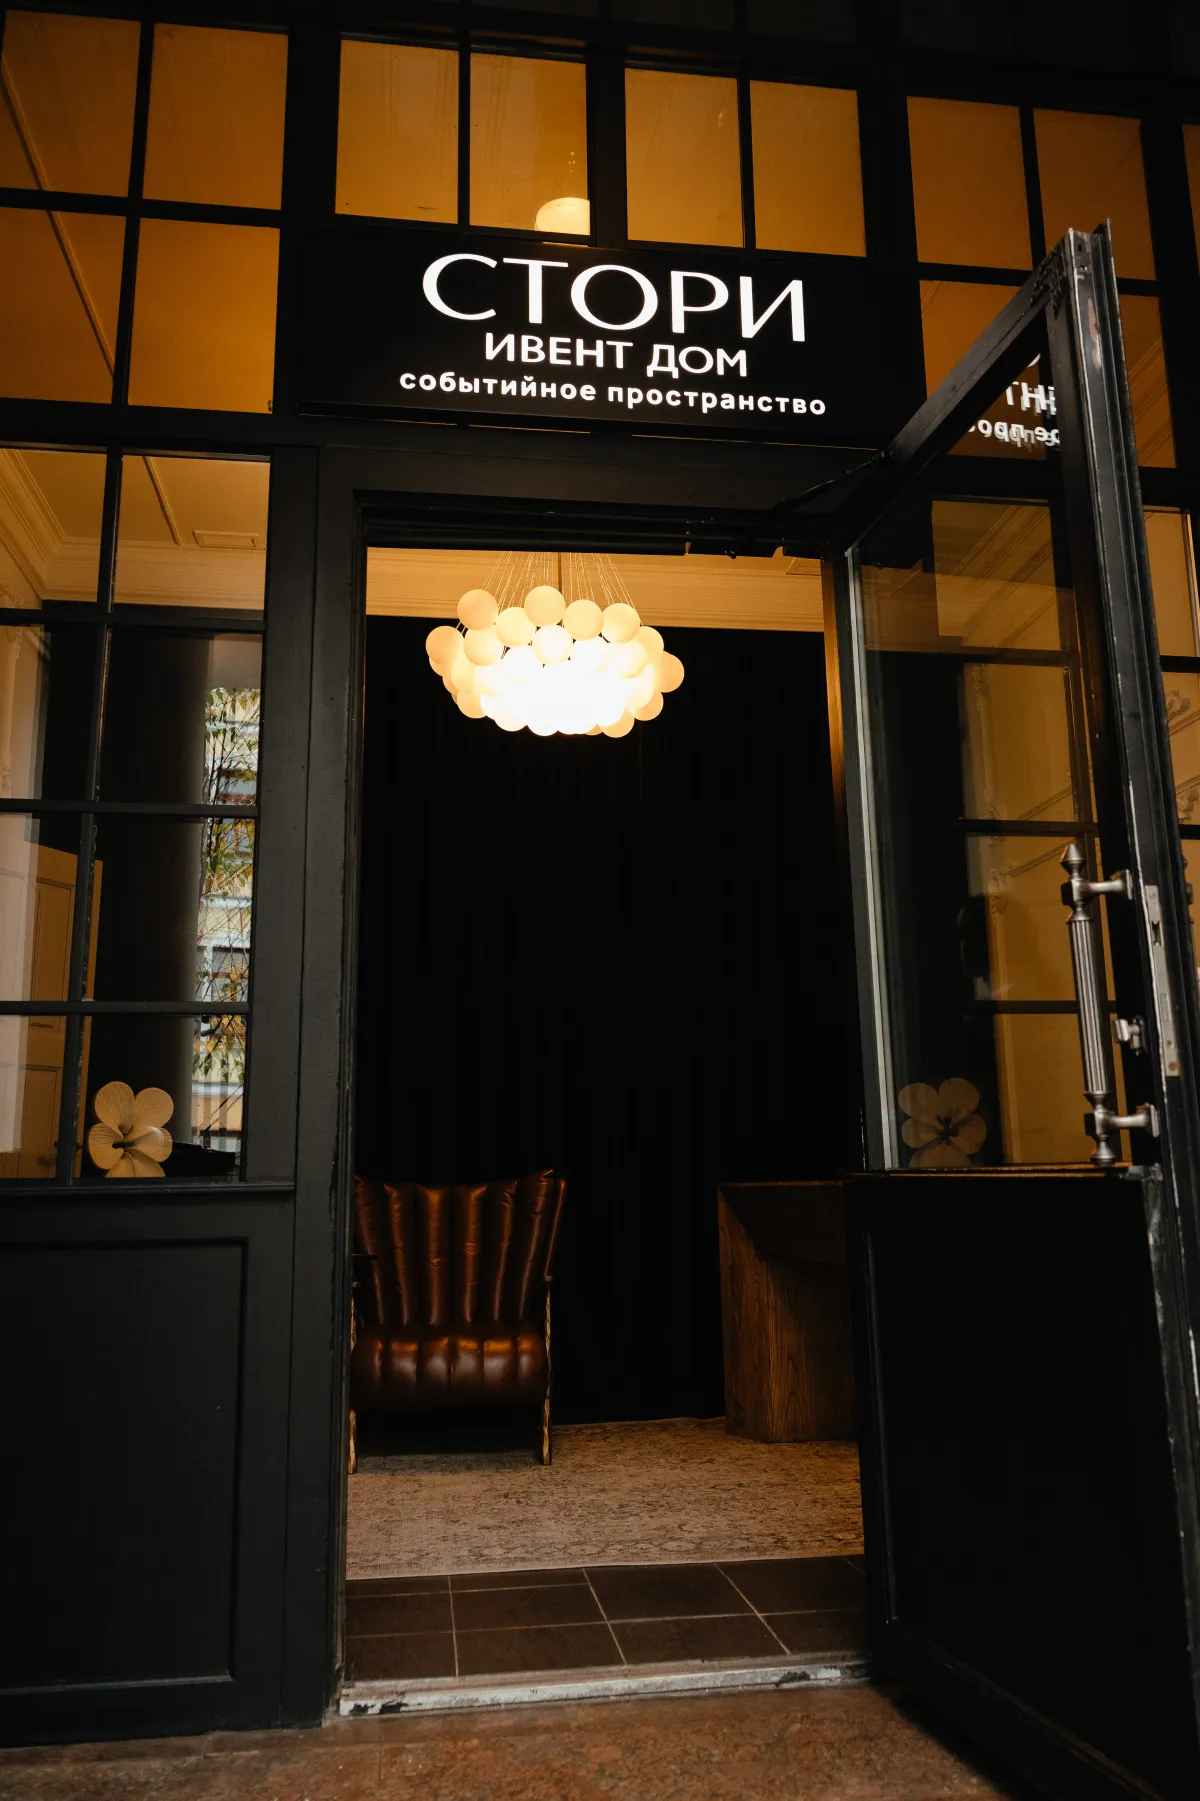
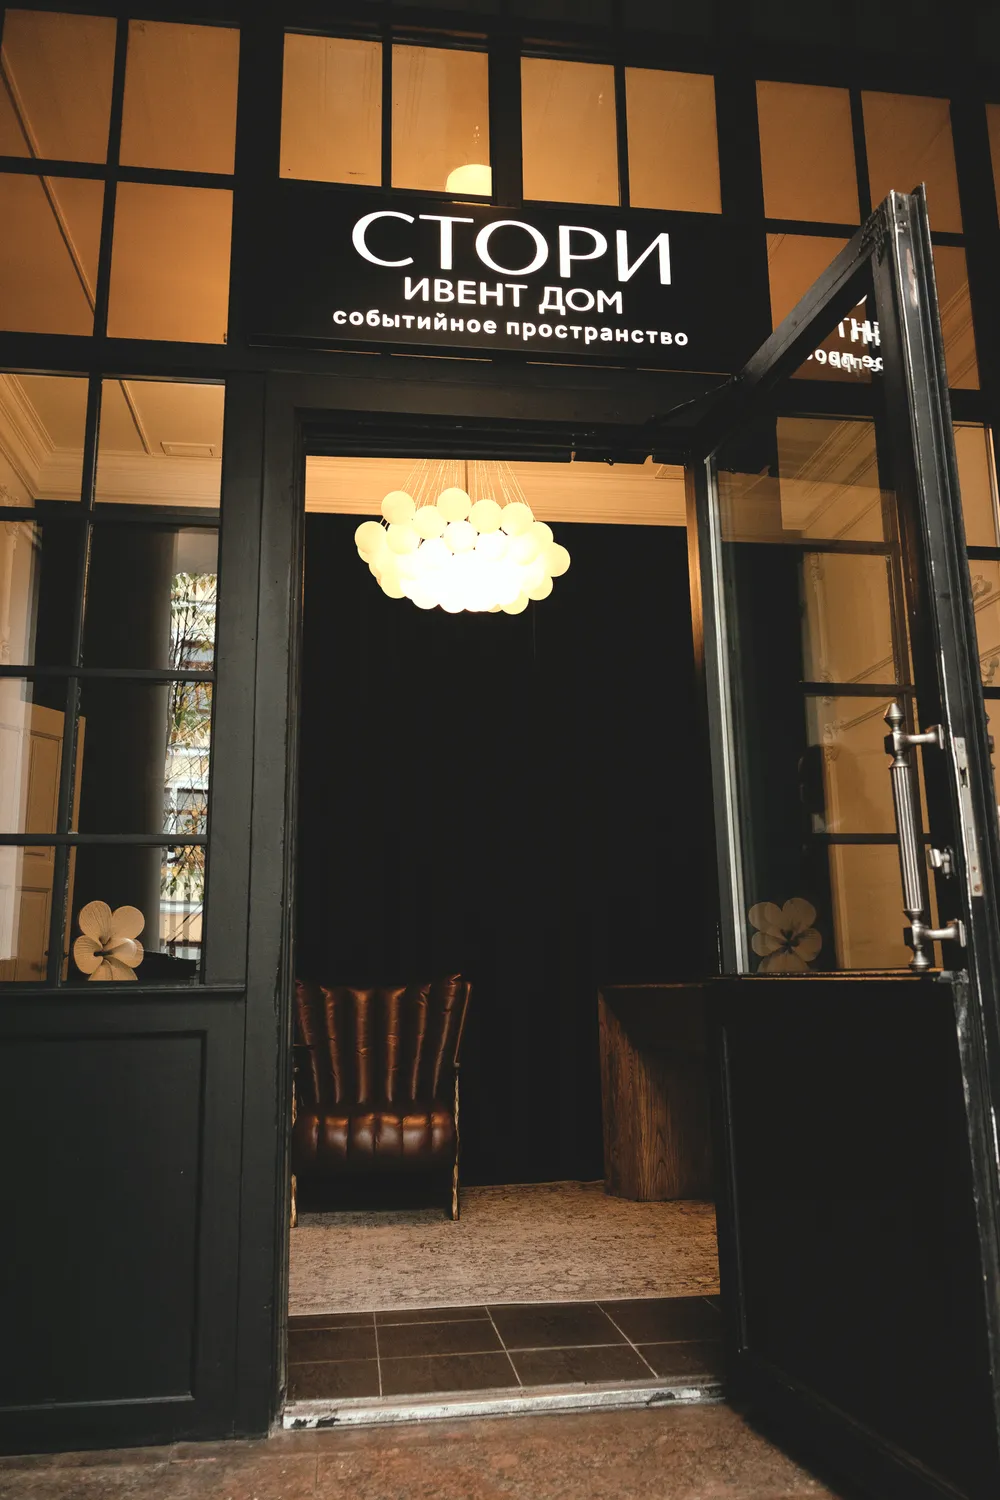
Zone photos: unified grade, new lounge photo, lightbox on click

diff --git a/index.html b/index.html
@@ -130,6 +130,18 @@
   .more-link{text-align:center;margin:32px 0 0;}
   .more-link a{display:inline-block;font-size:16px;font-weight:600;color:var(--dark);text-decoration:none;border-bottom:1.5px solid currentColor;padding-bottom:3px;}
   .more-link a:hover{opacity:.65;}
+  .sp.zoomable{cursor:zoom-in;}
+  .sp.zoomable img{transition:transform .5s ease;}
+  .sp.zoomable:hover img{transform:scale(1.03);}
+  .lb{position:fixed;inset:0;z-index:300;background:rgba(20,18,19,.94);display:none;align-items:center;justify-content:center;padding:56px 16px;}
+  .lb.open{display:flex;}
+  .lb img{max-width:100%;max-height:100%;object-fit:contain;border-radius:8px;}
+  .lb button{position:absolute;border:0;background:rgba(255,255,255,.14);color:#fff;width:48px;height:48px;border-radius:50%;font:400 26px/1 Inter,sans-serif;cursor:pointer;display:flex;align-items:center;justify-content:center;}
+  .lb button:hover{background:rgba(255,255,255,.28);}
+  .lb .lb-x{top:max(12px,env(safe-area-inset-top,0px));right:12px;}
+  .lb .lb-p{left:12px;top:50%;margin-top:-24px;}.lb .lb-n{right:12px;top:50%;margin-top:-24px;}
+  .lb .lb-cap{position:absolute;left:0;right:0;bottom:max(14px,env(safe-area-inset-bottom,0px));text-align:center;color:#d8d3cc;font-size:14px;padding:0 70px;}
+  @media (max-width:760px){.lb{padding:64px 8px 56px;}.lb .lb-p,.lb .lb-n{top:auto;bottom:max(8px,env(safe-area-inset-bottom,0px));margin:0;}.lb .lb-cap{display:none;}}
   .sp .ph,.sp img{position:absolute;inset:0;width:100%;height:100%;object-fit:cover;}
   .sp .ph{background:repeating-linear-gradient(135deg,#3b393a 0 14px,#343233 14px 28px);padding:22px;}
   .sp .ph span{display:inline-block;font-size:12px;letter-spacing:.12em;text-transform:uppercase;color:var(--on-dark-soft);border:1px dashed rgba(255,255,255,.35);border-radius:var(--pill);padding:8px 16px;}
@@ -399,10 +411,10 @@
     <p>Как участник проходит площадку — от двери до зала.</p>
   </div>
   <div class="spaces">
-    <figure class="sp sp-a"><img src="assets/zone-hall.webp" width="1600" height="1067" alt="Основной зал для конференции: ряды стульев, сцена с экраном, люстры" loading="lazy"><figcaption><span class="n">01</span><h3>Основной зал</h3><p>Высокие потолки, сцена с экраном, панорамные окна — и полный блэкаут для слайдов.</p></figcaption></figure>
-    <figure class="sp sp-b"><img src="assets/zone-entrance.webp" width="1200" height="1801" alt="Отдельный вход в СТОРИ с улицы: вывеска «СТОРИ Ивент Дом», открытая дверь, люстра в холле" loading="lazy" style="object-position:50% 30%"><figcaption><span class="n">02</span><h3>Вход</h3><p>Отдельный вход с улицы — только для ваших гостей.</p></figcaption></figure>
-    <figure class="sp sp-c"><img src="assets/zone-reception.webp" width="1200" height="1800" alt="Ресепшен у входа: стойка, кожаное кресло и люстра" loading="lazy" style="object-position:50% 78%"><figcaption><span class="n">03</span><h3>Ресепшен</h3><p>Напротив входа: первая точка регистрации, гардероб рядом.</p></figcaption></figure>
-    <figure class="sp sp-d"><img src="assets/zone-lounge.webp" width="1400" height="2100" alt="Лаунж и бар: кожаные диваны, барная стойка и подвесные светильники" loading="lazy" style="object-position:50% 52%"><figcaption><span class="n">04</span><h3>Лаунж и бар</h3><p>Кожаные диваны и стойка с подсветкой — чтобы пообщаться в перерывах и после выступлений.</p></figcaption></figure>
+    <figure class="sp zoomable sp-a"><img src="assets/zone-hall.webp" data-full="assets/zone-hall-full.webp" width="1200" height="800" alt="Основной зал для конференции: ряды стульев, сцена с экраном, люстры" loading="lazy" style="object-position:50% 50%"><figcaption><span class="n">01</span><h3>Основной зал</h3><p>Высокие потолки, сцена с экраном, панорамные окна — и полный блэкаут для слайдов.</p></figcaption></figure>
+    <figure class="sp zoomable sp-b"><img src="assets/zone-entrance.webp" data-full="assets/zone-entrance-full.webp" width="1000" height="1500" alt="Отдельный вход в СТОРИ с улицы: вывеска «СТОРИ Ивент Дом», открытая дверь, люстра в холле" loading="lazy" style="object-position:50% 30%"><figcaption><span class="n">02</span><h3>Вход</h3><p>Отдельный вход с улицы — только для ваших гостей.</p></figcaption></figure>
+    <figure class="sp zoomable sp-c"><img src="assets/zone-reception.webp" data-full="assets/zone-reception-full.webp" width="1000" height="1500" alt="Ресепшен у входа: стойка, кожаное кресло и люстра" loading="lazy" style="object-position:50% 78%"><figcaption><span class="n">03</span><h3>Ресепшен</h3><p>Напротив входа: первая точка регистрации, гардероб рядом.</p></figcaption></figure>
+    <figure class="sp zoomable sp-d"><img src="assets/zone-lounge.webp" data-full="assets/zone-lounge-full.webp" width="1400" height="933" alt="Лаунж и бар: кожаные диваны, барная стойка и подвесные светильники" loading="lazy" style="object-position:50% 40%"><figcaption><span class="n">04</span><h3>Лаунж и бар</h3><p>Кожаные диваны и стойка с подсветкой — чтобы пообщаться в перерывах и после выступлений.</p></figcaption></figure>
   </div>
   <p class="more-link"><a href="https://storyevent.ru/portfolio/" target="_blank" rel="noopener">Смотреть портфолио СТОРИ →</a></p>
 </section>
@@ -498,6 +510,14 @@
   <button type="button" class="btn btn-dark" data-go-form data-cta="sticky">Записаться на просмотр</button>
 </div>
 
+<div class="lb" id="lightbox" role="dialog" aria-modal="true" aria-label="Просмотр фото">
+  <button type="button" class="lb-x" aria-label="Закрыть">×</button>
+  <button type="button" class="lb-p" aria-label="Предыдущее фото">‹</button>
+  <img alt="" src="">
+  <button type="button" class="lb-n" aria-label="Следующее фото">›</button>
+  <div class="lb-cap"></div>
+</div>
+
 <div class="cookie" id="cookieBanner">
   <span>Мы используем cookie и метрические программы. Подробнее — в <a href="https://storyevent.ru/privacy-policy/" target="_blank" rel="noopener">Положении об обработке персональных данных</a>.</span>
   <button id="cookieAccept" type="button">Хорошо</button>
@@ -547,6 +567,33 @@
   document.addEventListener("click", function(e){ var dd = document.querySelector(".has-dd"); if(dd && !dd.contains(e.target)) dd.classList.remove("open"); });
   function onScroll(){ header.classList.toggle("is-solid", window.scrollY > 80); }
   window.addEventListener("scroll", onScroll, {passive:true}); onScroll();
+})();
+
+// Просмотр фото зон по клику
+(function(){
+  var tiles=[].slice.call(document.querySelectorAll('.sp.zoomable'));
+  var lb=document.getElementById('lightbox'); if(!lb||!tiles.length) return;
+  var img=lb.querySelector('img'), cap=lb.querySelector('.lb-cap'), cur=0, lastFocus=null;
+  function show(i){
+    cur=(i+tiles.length)%tiles.length; var t=tiles[cur], im=t.querySelector('img');
+    img.src=im.getAttribute('data-full')||im.src; img.alt=im.alt;
+    var h=t.querySelector('h3'); cap.textContent=h?h.textContent:'';
+  }
+  function open(i){ lastFocus=document.activeElement; show(i); lb.classList.add('open'); document.body.style.overflow='hidden'; lb.querySelector('.lb-x').focus(); }
+  function close(){ lb.classList.remove('open'); document.body.style.overflow=''; img.src=''; if(lastFocus&&lastFocus.focus) lastFocus.focus(); }
+  tiles.forEach(function(t,i){
+    t.setAttribute('tabindex','0'); t.setAttribute('role','button'); t.setAttribute('aria-label','Открыть фото: '+(t.querySelector('h3')?t.querySelector('h3').textContent:''));
+    t.addEventListener('click',function(){open(i);});
+    t.addEventListener('keydown',function(e){ if(e.key==='Enter'||e.key===' '){e.preventDefault();open(i);} });
+  });
+  lb.querySelector('.lb-x').addEventListener('click',close);
+  lb.querySelector('.lb-p').addEventListener('click',function(e){e.stopPropagation();show(cur-1);});
+  lb.querySelector('.lb-n').addEventListener('click',function(e){e.stopPropagation();show(cur+1);});
+  lb.addEventListener('click',function(e){ if(e.target===lb||e.target===img) close(); });
+  document.addEventListener('keydown',function(e){
+    if(!lb.classList.contains('open')) return;
+    if(e.key==='Escape') close(); else if(e.key==='ArrowLeft') show(cur-1); else if(e.key==='ArrowRight') show(cur+1);
+  });
 })();
 </script>
 </body>
